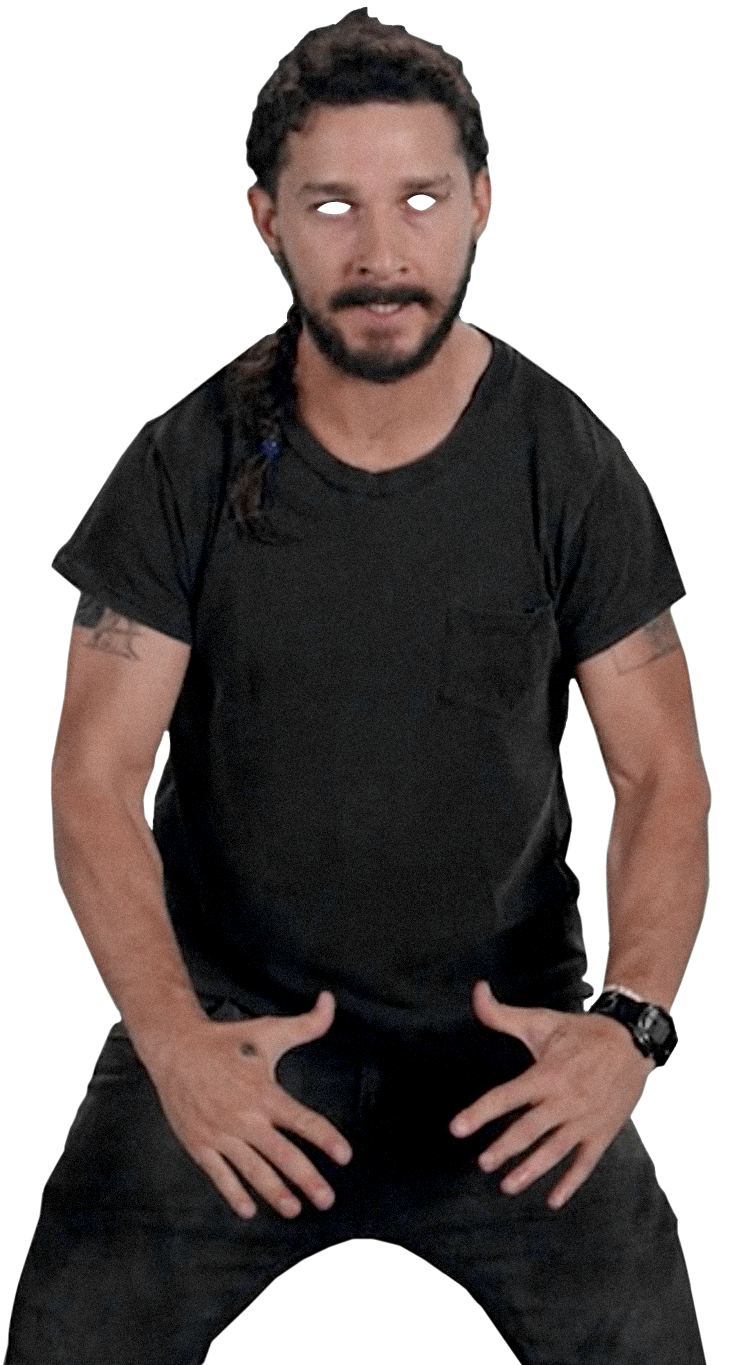
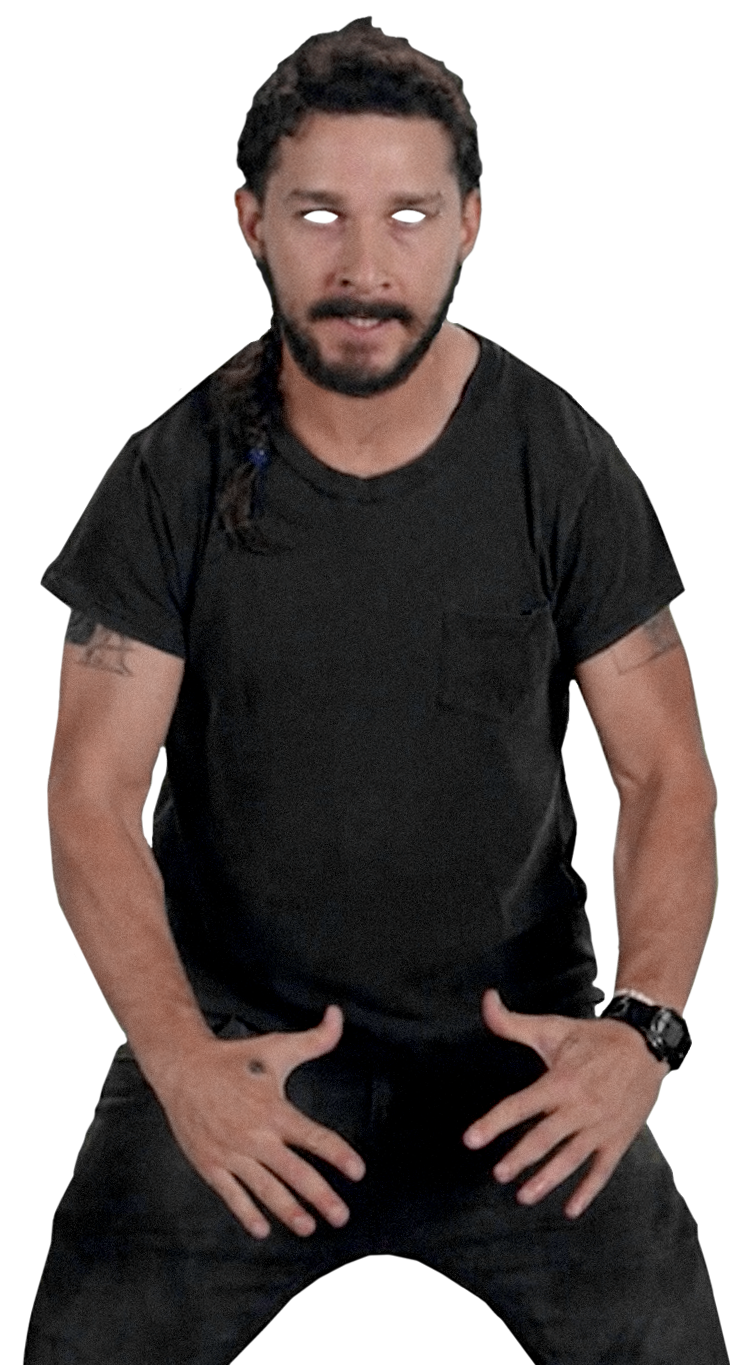
eyes are now working

diff --git a/js/main.js b/js/main.js
@@ -173,26 +173,20 @@ function changeBackground() {
 
 // follow the cursor
 
-let eyesElement = document.getElementById('eyes');
-let eyesTop = getComputedStyle(eyesElement).getPropertyValue('top')
-let eyesLeft = getComputedStyle(eyesElement).getPropertyValue('left')
+let eyesElement = document.getElementsByClassName("eyeballs");
 
-console.log(eyesElement.style.left)
-console.log(eyesElement.style.top)
+document.onmousemove = function () {
+    let x = event.clientX * 100 / window.innerWidth + "%";
+    let y = event.clientY * 100 / window.innerHeight + "%";
 
-/* document.onmousemove = function () {
-    let x = event.clientX * 5 / window.innerWidth + "px";
-    let y = event.clientY * 5 / window.innerHeight + "px";
+    for(i = 0; i < 2; i++){
+ 
+        eyesElement[i].style.left = x;
+        eyesElement[i].style.top = y;
+        eyesElement[i].style.transform = "translate(-"+x+",-"+y+")";
+    }
 
-    eyesElement.style.left = x;
-    eyesElement.style.top = y;
-    
-    console.log(`top: ${eyesElement.style.top}`)
-    console.log(`left: ${eyesElement.style.left}`)
-
-    
-    
-} */
+}
 
 /* function movingEyes () {
     let x = event.clientX * 100 / window.innerWidth + "px";

diff --git a/css/style.css b/css/style.css
@@ -72,7 +72,6 @@ button:hover{
   justify-self: center;
   width: auto;
   height: 97%;
-  /* background-color: black; */
 }
 
 #shia-photo {
@@ -82,20 +81,35 @@ button:hover{
   z-index: 1;
 }
 
-#shia-eyes {
+.eyes{
   position: absolute;
-  width: 100%;
-  height: 100%;
+  top: 15.2%;
+  /* display:flex;
+  justify-content: center;
+  align-items: center; */
   z-index: 0;
+  border-radius: 50%;
+  width: 5.5%;
+  height: 1.8%;
+  background-color: rgb(226, 216, 216)
 }
 
-#eyes{
+#eye {
+  right: 41.2%;
+}
+
+#eye2 {
+  left: 41%;
+}
+
+.eyeballs{
   position: absolute;
-  width: inherit;
-  height: auto;
-  top: 0;
-  left: 0;
-  z-index: 3;
+  width: 40%;
+  height: 60%;
+  z-index: inherit;
+  top: 50%;
+  left: 50%;
+  transform: translate(-50%, -50%);
 }
 
 #config{

diff --git a/index.html b/index.html
@@ -26,9 +26,15 @@
   
   <div id="shia">
     <img id="shia-photo" src="./media/images/shia.png">
-    <div id="shia-eyes">
-        <img id="eyes" src="./media/images/shia-eyes.png">
+    <div class="eyes" id="eye">
+        <img class="eyeballs" src="./media/images/eyeball.png">
     </div>
+      
+    <div class="eyes" id="eye2">
+        <img class="eyeballs" src="./media/images/eyeball.png">
+    </div>
+        <!-- <img id="eyes" src="./media/images/shia-eyes.png"> -->
+    
     
   </div>
 
